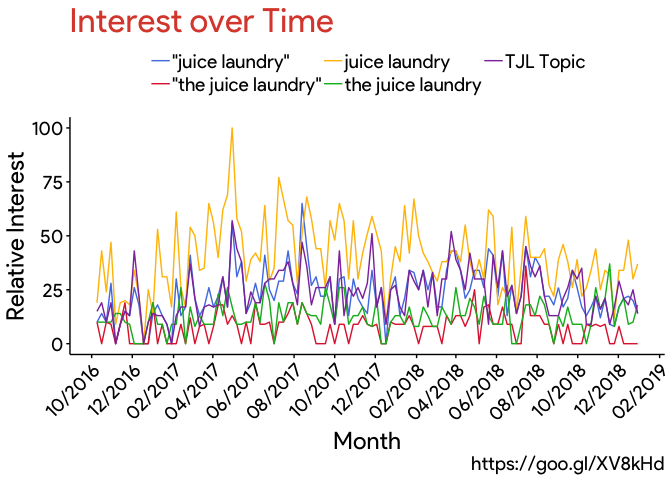
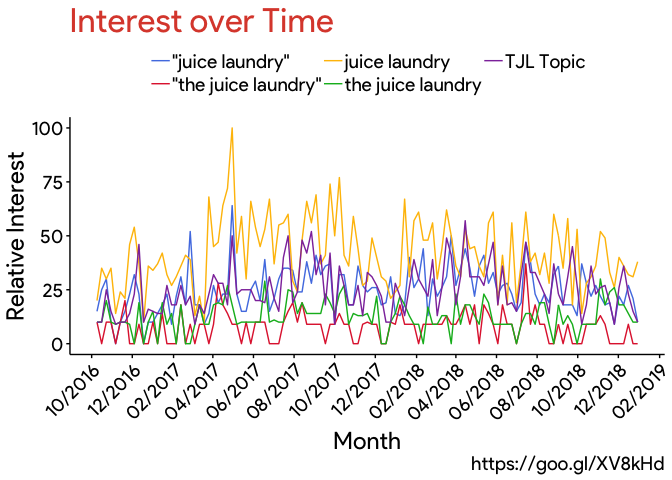
fixed competition ui

Changed region(s): [[0.125, 0.3125, 0.9688, 0.7188]]

diff --git a/google-trends-guide.md b/google-trends-guide.md
@@ -221,7 +221,7 @@ setequal(google_trends, gtrends)
 
 ### `get_gtrends_url` function
 
-Enter the parameters you desire and retrieve the URL for that exact *Google Trends* UI. Here you do not need to decode the topic terms. Then again, topic terms are not practical for this function considering you need the URL to get their codes in the first place.
+Enter the parameters you desire and retrieve the URL for the *Google Trends* Web UI with those parameters. Here you do not need to decode the topic terms. Then again, topic terms are not practical for this function considering you need the URL to get their codes in the first place.
 
 ``` r
 start_date <- "2016-10-09"
@@ -350,11 +350,11 @@ avg_trend
     ## # A tibble: 5 x 2
     ##   search_term             avg_interest
     ##   <chr>                          <dbl>
-    ## 1 "\"juice laundry\""               24
-    ## 2 "\"the juice laundry\""            7
-    ## 3 juice laundry                     40
+    ## 1 "\"juice laundry\""               25
+    ## 2 "\"the juice laundry\""            8
+    ## 3 juice laundry                     42
     ## 4 the juice laundry                 13
-    ## 5 TJL Topic                         24
+    ## 5 TJL Topic                         25
 
 Construct a draft for the bar graph. Remember that bar graphs with y variables specified must clarify that `stat = 'identity'`.
 
@@ -399,7 +399,7 @@ ui_copy <- grid.arrange(bar_graph, line_graph, ncol = 2, widths = c(1, 6))
 ![](google-trends-guide_files/figure-markdown_github/ui-replication-1.png)
 
 ``` r
-ggsave("ui_copy.png", ui_copy)
+# ggsave("ui_copy.png", ui_copy)
 ```
 
 Here is the example UI again for comparision:
